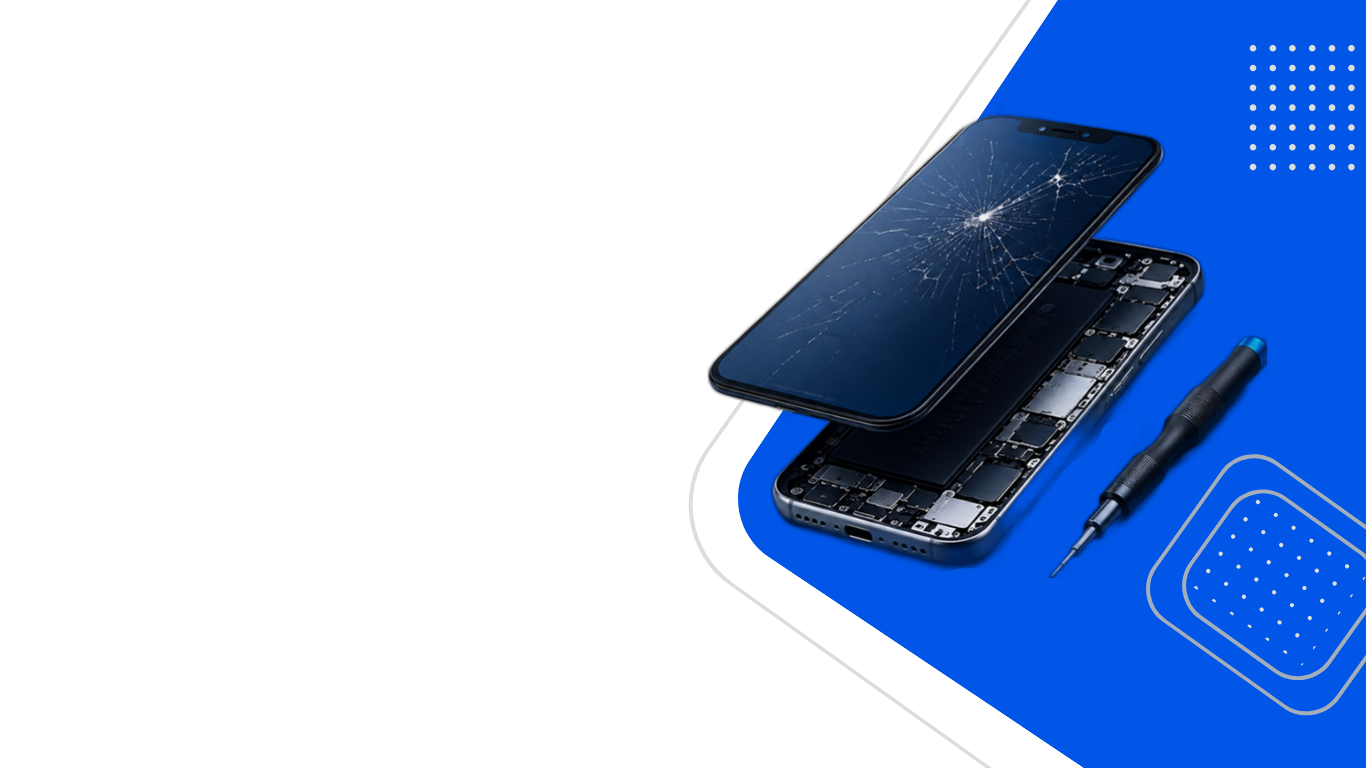
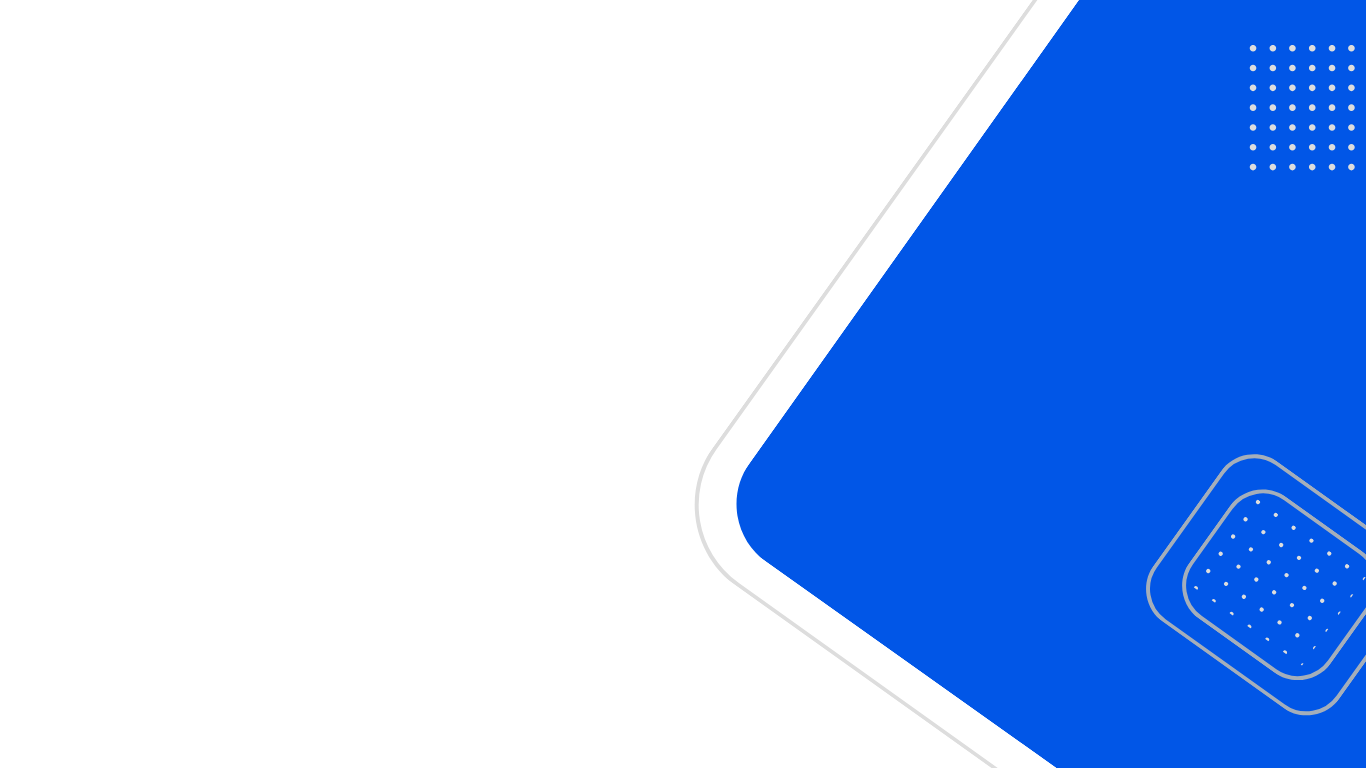
error fixed

diff --git a/sections/home/AboutSection.tsx b/sections/home/AboutSection.tsx
@@ -1,18 +1,19 @@
 "use client";
 import Link from "next/link";
 import Image from "next/image";
-import { ShieldCheck, Settings, Award, Clock, Wrench, ArrowRight } from "lucide-react";
+import { ShieldCheck, Settings, Award, Clock, Wrench, ArrowRight, ClockFading } from "lucide-react";
 import { site } from "../../data";
 import { motion } from "framer-motion";
 import { fadeUpVariants, containerVariants } from "../../utils/animations";
 import { FaArrowRightLong } from "react-icons/fa6";
 import { SlWrench } from "react-icons/sl";
+import { FaMedal } from "react-icons/fa";
 
 const IconMap: Record<string, React.ElementType> = {
     shield: ShieldCheck,
     settings: Settings,
-    award: Award,
-    clock: Clock,
+    award: FaMedal,
+    clock: ClockFading,
 };
 
 export default function AboutSection() {

diff --git a/sections/home/HeroSection.tsx b/sections/home/HeroSection.tsx
@@ -9,6 +9,8 @@ import { FiSmartphone, FiShield, FiAward, FiClock, FiCheckCircle, } from "react-
 import { Roboto } from "next/font/google";
 import { containerVariants, fadeUpVariants, badgeVariants } from "../../utils/animations";
 import { site } from "../../data";
+import { FaMedal } from "react-icons/fa";
+import { ClockFading } from "lucide-react";
 
 const roboto = Roboto({
   subsets: ["latin"],
@@ -17,8 +19,8 @@ const roboto = Roboto({
 
 const IconMap: Record<string, React.ElementType> = {
   shield: FiShield,
-  award: FiAward,
-  clock: FiClock,
+  award: FaMedal,
+  clock: ClockFading,
   checkCircle: FiCheckCircle,
   workspaceTrusted: VscWorkspaceTrusted,
 };
